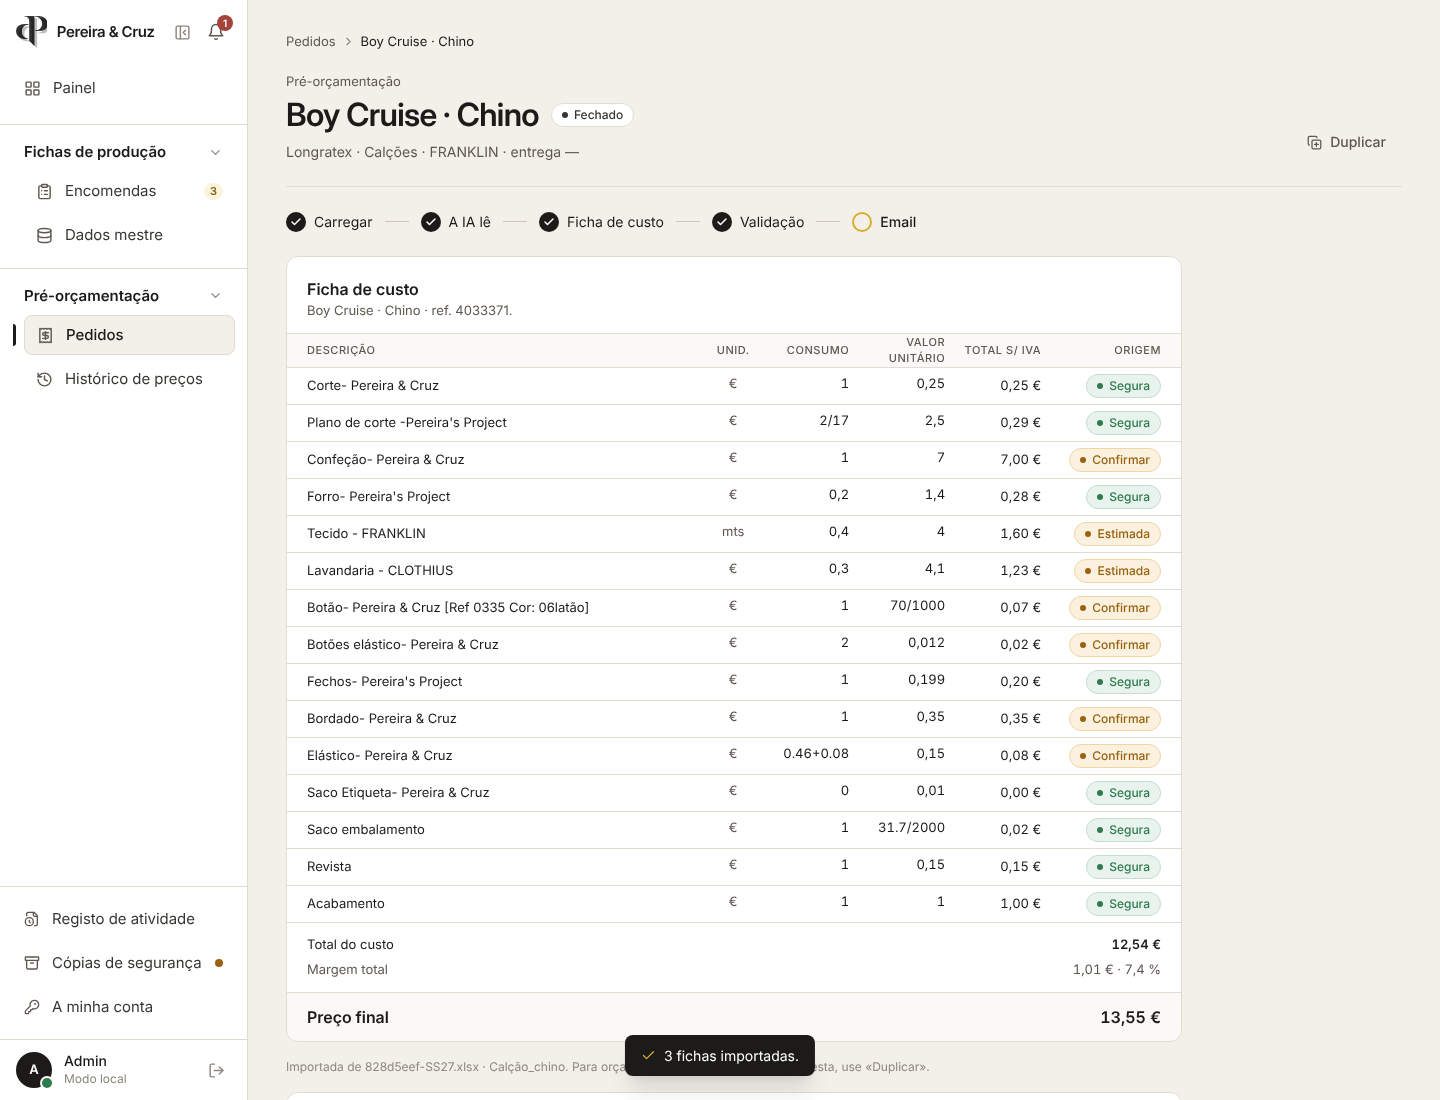
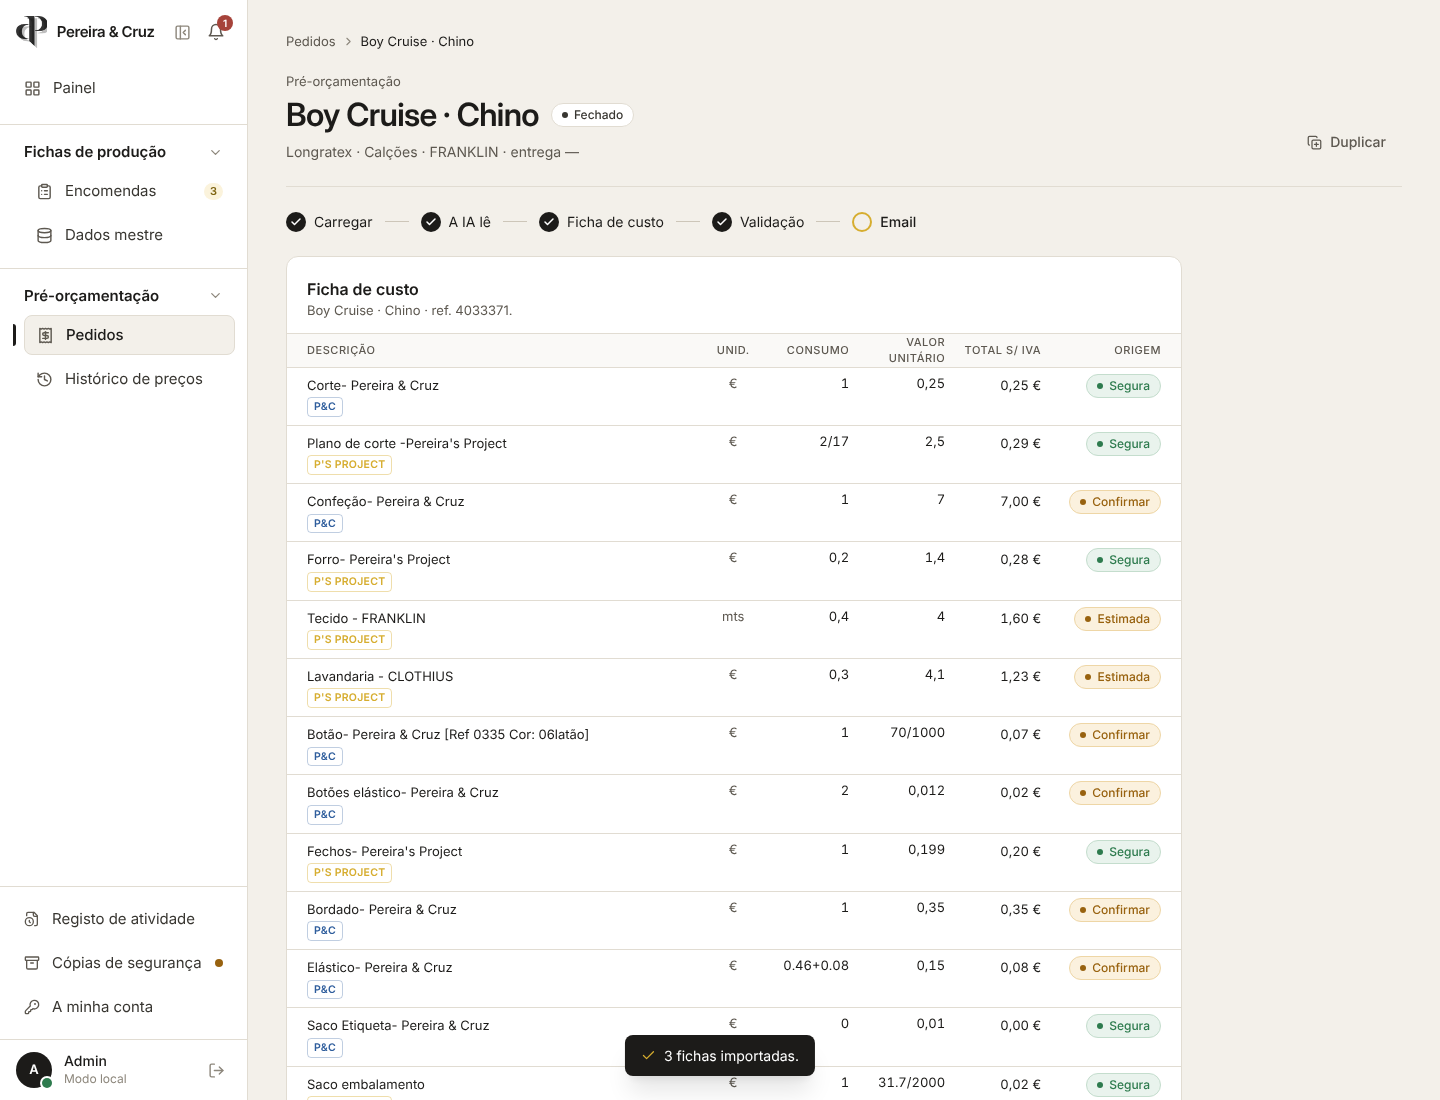
Ficha de custo: linhas por empresa (Pereira & Cruz / Pereira's Project) e subtotais
Claude-Session: https://claude.ai/code/session_014SCyJzst3T8Z4ALdvs9ESZ

diff --git a/src/pages/orcamentos/NovoPedido.tsx b/src/pages/orcamentos/NovoPedido.tsx
@@ -6,7 +6,7 @@ import { useDb } from '../../store/db'
 import { Botao, Cabecalho, Campo, Cartao, Confianca, Entrada, Etiqueta, EtiquetaIA, Passos, Pilulas, Seletor, aviso, type Tom } from '../../components/ui'
 import { TechPack } from '../../components/TechPack'
 import { linhasModeloPC, linhasShirtMao } from '../../data/seed'
-import { MIN_CASOS_INTERVALO, avaliarExpr, calcularCusto, pecasParecidas, propostaIntervalo, totalLinha } from '../../lib/calc'
+import { EMPRESAS, MIN_CASOS_INTERVALO, avaliarExpr, calcularCusto, empresaDaLinha, totaisPorEmpresa, pecasParecidas, propostaIntervalo, totalLinha } from '../../lib/calc'
 import { dataCurta, eur, hojeISO, num, uid } from '../../lib/format'
 import type { LinhaCusto, OrigemCusto, Pedido } from '../../types'
 import { TOM_PEDIDO } from './Pedidos'
@@ -221,6 +221,7 @@ export default function NovoPedido() {
 function FichaCusto({ p, atualizar, editavel, compacta }: { p: Pedido; atualizar: (x: Partial<Pedido>) => void; editavel: boolean; compacta?: boolean }) {
   const cfg = useDb((s) => s.clientes.find((c) => c.nome === p.cliente))
   const c = calcularCusto(p.linhas, cfg, p.precoFinal, p)
+  const porEmpresa = totaisPorEmpresa(p.linhas)
   const [aberta, setAberta] = useState(!compacta)
   const linha = (id: string, x: Partial<LinhaCusto>) => atualizar({ linhas: p.linhas.map((l) => (l.id === id ? { ...l, ...x } : l)) })
   // consumo/valor: aceita números ou fórmulas simples (3/32, 140.8/1000, 0,46+0,08)
@@ -253,6 +254,11 @@ function FichaCusto({ p, atualizar, editavel, compacta }: { p: Pedido; atualizar
                 <tr key={l.id} className="border-b border-linha align-top">
                   <td className="px-5 py-2">
                     {editavel ? <input defaultValue={l.descricao} onBlur={(e) => e.target.value.trim() && e.target.value !== l.descricao && linha(l.id, { descricao: e.target.value.trim() })} className="w-full bg-transparent outline-none focus:bg-fundo rounded px-1 -mx-1" /> : <p>{l.descricao}</p>}
+                    {(() => { const e = empresaDaLinha(l); return (
+                      <button disabled={!editavel} title={`${EMPRESAS[e].nome} (${EMPRESAS[e].papel})${editavel ? ' · clicar para trocar' : ''}`}
+                        onClick={() => linha(l.id, { empresa: e === 'PC' ? 'PP' : 'PC' })}
+                        className={clsx('mt-0.5 whitespace-nowrap text-[10.5px] font-semibold tracking-wide rounded px-1.5 py-px border', e === 'PC' ? 'text-azul border-azul/30' : 'text-ouro border-ouro/40', editavel && 'hover:bg-fundo')}>
+                        {e === 'PC' ? 'P&C' : 'PP'}</button>) })()}
                     {l.nota && <p className={clsx('text-[12px] mt-0.5 flex gap-1', incoerente ? 'text-ambar' : 'text-suave')}>{incoerente && <AlertTriangle size={12} className="mt-0.5 shrink-0" />}{l.nota}</p>}
                   </td>
                   <td className="px-1 py-1.5 text-center text-suave">{editavel
@@ -274,6 +280,9 @@ function FichaCusto({ p, atualizar, editavel, compacta }: { p: Pedido; atualizar
         {editavel && <div className="px-5 pt-2"><Botao pequeno variante="fantasma" icone={<Plus size={13} />} onClick={() => atualizar({ linhas: [...p.linhas, { id: uid('c'), descricao: 'Nova linha', unidade: '€', consumo: 1, valor: 0, origem: 'Confirmar' }] })}>Acrescentar linha</Botao></div>}
         <div className="px-5 py-3 text-[13px] space-y-1.5">
           <div className="flex justify-between"><span>Total do custo</span><span className="font-semibold num">{eur(c.total)}</span></div>
+          {(['PC', 'PP'] as const).map((e) => (
+            <div key={e} className="flex justify-between text-suave text-[12px] pl-3"><span>{EMPRESAS[e].nome} <span className="text-tenue">· {EMPRESAS[e].papel}</span></span><span className="num">{eur(porEmpresa[e])}</span></div>
+          ))}
           {c.fixado ? (<>
             <div className={clsx('flex justify-between', c.margem < 0 ? 'text-vermelho font-semibold' : 'text-suave')}><span>Margem total {c.margem < 0 && '· preço abaixo do custo'}</span><span className="num">{eur(c.margem)} · {c.margemPct.toFixed(1).replace('.', ',')} %</span></div>
             {(p.margemFixa != null || p.comissaoPct != null) && Math.abs(c.ajuste) > 0.005 && (

diff --git a/src/lib/calc.ts b/src/lib/calc.ts
@@ -1,4 +1,4 @@
-import type { ClienteCfg, Encomenda, LinhaCusto, LinhaMaterial, Modelo, PrecoHistorico, Variante } from '../types'
+import type { ClienteCfg, Encomenda, LinhaCusto, LinhaMaterial, Modelo, PrecoHistorico, Variante, Empresa } from '../types'
 
 export const soma = (a: number[]) => a.reduce((s, x) => s + x, 0)
 
@@ -131,6 +131,28 @@ export function packingList(qtd: number[], max: number): number[][] {
 
 // ---------------- Ficha de custo ----------------
 export const totalLinha = (l: LinhaCusto) => l.consumo * l.valor
+
+export const EMPRESAS: Record<Empresa, { nome: string; papel: string }> = {
+  PC: { nome: 'Pereira & Cruz', papel: 'produção: corte, confeção e controlo' },
+  PP: { nome: "Pereira's Project", papel: 'comercial: materiais, lavandaria, acabamento e entrega' },
+}
+/**
+ * Empresa que assume cada linha: a escolhida na ficha; senão a escrita na descrição («Corte - Pereira & Cruz»);
+ * senão a regra: corte, confeção e controlo/revista são da Pereira & Cruz, o resto (materiais, lavandaria,
+ * acabamento, embalagem) da Pereira's Project.
+ */
+export function empresaDaLinha(l: Pick<LinhaCusto, 'descricao' | 'empresa'>): Empresa {
+  if (l.empresa) return l.empresa
+  const d = l.descricao.normalize('NFD').replace(/[\u0300-\u036f]/g, '').toLowerCase()
+  if (/pereira'?s\s*project/.test(d)) return 'PP'
+  if (/pereira\s*(&|e)\s*cruz/.test(d)) return 'PC'
+  return /^(corte|confec|controlo|revista|costura)/.test(d.trim()) ? 'PC' : 'PP'
+}
+export function totaisPorEmpresa(linhas: LinhaCusto[]): Record<Empresa, number> {
+  const t: Record<Empresa, number> = { PC: 0, PP: 0 }
+  for (const l of linhas) t[empresaDaLinha(l)] += totalLinha(l)
+  return t
+}
 /**
  * Ficha de custo. Duas formas de chegar ao preço:
  * - preço final fixado (como nas fichas da Pereira & Cruz): margem total = preço final − custo;

diff --git a/src/types.ts b/src/types.ts
@@ -120,7 +120,10 @@ export interface LinhaCusto {
   unidade?: string // €, mts, kg…
   consumoExpr?: string // como foi escrito (ex.: «3/32» = 3 m de plano para 32 peças)
   valorExpr?: string // ex.: «140.8/1000» = preço por milheiro
+  empresa?: Empresa // quem assume o custo (por omissão: o que diz a descrição, ou a regra por tipo de linha)
 }
+/** PC = Pereira & Cruz (produção: corte, confeção, controlo); PP = Pereira's Project (comercial: materiais, lavandaria, acabamento, entrega). */
+export type Empresa = 'PC' | 'PP'
 export type EstadoPedido = 'Rascunho' | 'Por validar' | 'Validado' | 'Enviado' | 'Fechado'
 export interface Pedido {
   id: string

diff --git a/docs/orcamentos.md b/docs/orcamentos.md
@@ -40,3 +40,14 @@ Analisado a partir de `SS27.xlsx` (Longratex: Vaqueiro, Calção chino, Calção
   (percentagem, ex.: `E28*0.07`) **· Preço final**. A ficha importada guarda a margem e a comissão próprias.
 - Avisos novos: preço final à mão diferente do cálculo, linha sem consumo, cor da folha ≠ nome,
   mesmo código ou nome de cabeçalho noutra folha (cabeçalho copiado?), preço abaixo do custo.
+
+## As duas empresas
+
+- **Pereira's Project** (comercial): fala com os clientes, compra tecidos e acessórios, coordena prazos,
+  lavandaria, acabamento, embalagem e entrega.
+- **Pereira & Cruz** (produção): corte, confeção e controlo das peças.
+
+Na ficha de custo, cada linha tem a empresa que a assume (P&C ou PP, clica-se para trocar) e o total do
+custo mostra a parte de cada uma. Regra: a empresa escrita na descrição («Corte- Pereira & Cruz»); sem nada escrito,
+corte, confeção e revista são da Pereira & Cruz e o resto da Pereira's Project.
+Na SS27 (Longratex) há botão, bordado, elástico, botões de elástico e saco etiqueta escritos «Pereira & Cruz» (a confirmar).
